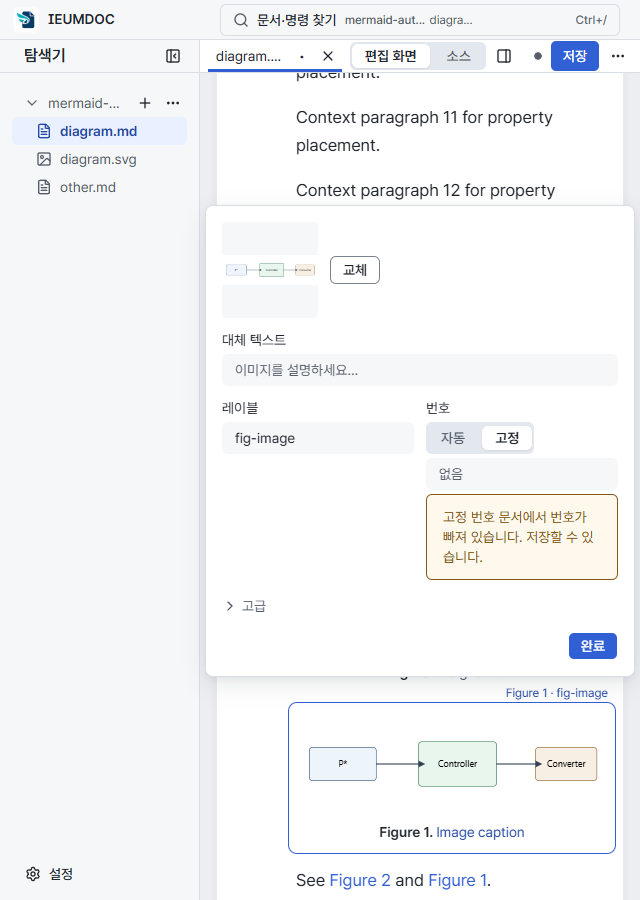
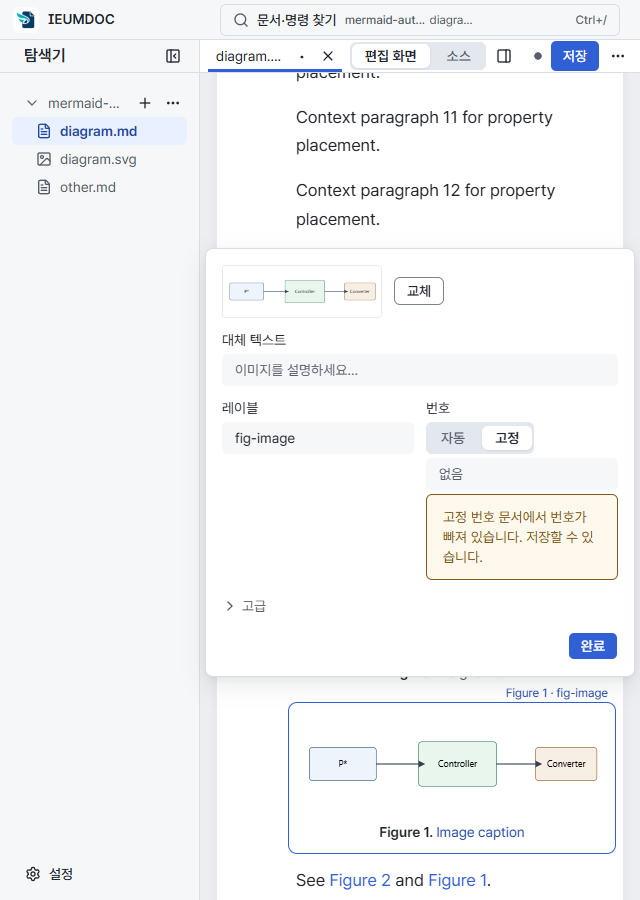
fix(editor): fit figure previews without square letterboxing
Bound image and Mermaid previews by adjustable maximum dimensions, put the
subtle border on the image itself, and align Advanced's visible Done clearance.
Refresh only the four owner-requested captures and their measurements.

AI-Agent: Codex
AI-Model: openai/gpt-6.1-sol

diff --git a/apps/editor/test/figure-authoring.browser.js b/apps/editor/test/figure-authoring.browser.js
@@ -223,6 +223,7 @@ async (page, { openFolderPicker, openDocument, waitForEditorFocus, expect, scree
           const track=el.querySelector('.view-toggle'), input=el.querySelector('[data-testid="figure-label"]');
           const box=el.querySelector('.figure-property-thumbnail'), image=box.querySelector('img');
           const b=box.getBoundingClientRect(), i=image.getBoundingClientRect(), style=getComputedStyle(el);
+          const imageStyle=getComputedStyle(image);
           return {
             segmentOffsets:[...track.querySelectorAll('button')].map(button => {
               const range=document.createRange(); range.selectNodeContents(button.querySelector('.view-toggle-label') ?? button);
@@ -231,6 +232,10 @@ async (page, { openFolderPicker, openDocument, waitForEditorFocus, expect, scree
             rowOffset:center(track.getBoundingClientRect())-center(input.getBoundingClientRect()),
             empty:[...el.querySelectorAll('input')].filter(n => !n.value && n.getClientRects().length).map(n => ({placeholder:n.placeholder, background:getComputedStyle(n).backgroundColor,surface:style.backgroundColor})),
             thumbnail:{box:rect(box),image:rect(image),ratio:image.naturalWidth/image.naturalHeight,
+              contentWidth:i.width-parseFloat(imageStyle.borderLeftWidth)-parseFloat(imageStyle.borderRightWidth),
+              contentHeight:i.height-parseFloat(imageStyle.borderTopWidth)-parseFloat(imageStyle.borderBottomWidth),
+              maxWidth:parseFloat(imageStyle.maxWidth),maxHeight:parseFloat(imageStyle.maxHeight),
+              background:getComputedStyle(box).backgroundColor,
               fits:i.left>=b.left && i.right<=b.right && i.top>=b.top && i.bottom<=b.bottom,
               offset:center(b)-center(el.querySelector('[data-testid="figure-replace"]').getBoundingClientRect())},
             disclosure:el.querySelector('summary svg')?.tagName,
@@ -245,10 +250,25 @@ async (page, { openFolderPicker, openDocument, waitForEditorFocus, expect, scree
           expect(empty.background).not.toBe('rgba(0, 0, 0, 0)');
         }
         expect(controls.thumbnail.fits).toBe(true);
-        expect(controls.thumbnail.image.width/controls.thumbnail.image.height).toBeCloseTo(controls.thumbnail.ratio,1);
+        expect(controls.thumbnail.background).toBe('rgba(0, 0, 0, 0)');
+        expect(Math.abs(controls.thumbnail.box.height-controls.thumbnail.image.height)).toBeLessThanOrEqual(1);
+        expect(Math.abs(controls.thumbnail.box.width-controls.thumbnail.image.width)).toBeLessThanOrEqual(1);
+        expect(controls.thumbnail.image.width).toBeLessThanOrEqual(controls.thumbnail.maxWidth);
+        expect(controls.thumbnail.image.height).toBeLessThanOrEqual(controls.thumbnail.maxHeight);
+        expect(controls.thumbnail.contentWidth/controls.thumbnail.contentHeight).toBeCloseTo(controls.thumbnail.ratio,1);
         expect(Math.abs(controls.thumbnail.offset)).toBeLessThanOrEqual(1);
         expect(controls.disclosure).toBe('svg');
         expect(new Set(controls.padding).size).toBe(1);
+        const closedGap=await popup.evaluate(el => {
+          const summary=el.querySelector('summary'), r=summary.getBoundingClientRect();
+          const labelBottom=r.top+(r.height+parseFloat(getComputedStyle(summary).lineHeight))/2;
+          return el.querySelector('.form-actions').getBoundingClientRect().top-labelBottom;
+        });
+        await popup.locator('summary').click();
+        const openGap=await popup.evaluate(el => el.querySelector('.form-actions').getBoundingClientRect().top-
+          el.querySelector('[data-testid="figure-file-name"]').getBoundingClientRect().bottom);
+        expect(Math.abs(openGap-closedGap), 'Expanded filename and collapsed disclosure have equal visible clearance before Done').toBeLessThanOrEqual(1);
+        await popup.locator('summary').click();
         // Revealing the third Number row must not stretch the neighboring Label field.
         const labelHeight=await page.getByTestId('figure-label').evaluate(el => el.getBoundingClientRect().height);
         await popup.getByRole('button',{name:'Fixed',exact:true}).click();

diff --git a/apps/editor/src/styles.css b/apps/editor/src/styles.css
@@ -2583,17 +2583,22 @@ ol.list[data-list-delimiter=")"][data-list-style="upper-roman"] > li::marker { c
 .figure-properties [data-slot="input"]:focus-visible { border-color: var(--id-color-border-focus); }
 .figure-property-media { display: flex; align-items: center; gap: var(--space-3); }
 .figure-property-thumbnail {
-  display: grid;
-  place-items: center;
+  display: flex;
+  align-items: center;
   flex: none;
-  width: var(--size-figure-property-thumbnail);
-  height: var(--size-figure-property-thumbnail);
-  overflow: hidden;
-  border-radius: var(--id-radius-sm);
-  background: var(--id-color-surface-subtle);
 }
-.figure-property-thumbnail img { display: block; max-width: 100%; max-height: 100%; width: auto; height: auto; object-fit: contain; }
-.figure-property-thumbnail .mermaid-preview { display: flex; align-items: center; justify-content: center; margin: 0; min-height: 0; width: 100%; height: 100%; }
+.figure-property-thumbnail img {
+  display: block;
+  max-width: var(--size-figure-property-thumbnail-max-width);
+  max-height: var(--size-figure-property-thumbnail-max-height);
+  width: auto;
+  height: auto;
+  border: var(--border-width) solid var(--id-color-border-subtle);
+  border-radius: var(--id-radius-sm);
+}
+/* Mermaid SVGs use percentage width; provide a width reference, leaving height intrinsic. */
+.figure-property-thumbnail .mermaid-preview { width: var(--size-figure-property-thumbnail-max-width); margin: 0; min-height: 0; }
+.figure-property-thumbnail .mermaid-preview img { margin: 0; }
 .figure-property-columns { display: grid; grid-template-columns: minmax(0, 1fr) minmax(0, 1fr); align-items: start; gap: var(--space-3); }
 .figure-number-field .view-toggle { width: fit-content; height: var(--size-control); align-items: center; }
 .figure-properties details > summary {
@@ -2609,6 +2614,8 @@ ol.list[data-list-delimiter=")"][data-list-style="upper-roman"] > li::marker { c
 .figure-properties details > summary svg { width: var(--size-icon-slot); height: var(--size-icon-slot); }
 .figure-properties details[open] > summary svg { transform: rotate(90deg); }
 .figure-properties details[open] > summary { margin-bottom: var(--space-2); }
+/* Match the collapsed disclosure's label-line clearance above Done. */
+.figure-properties details[open] { padding-bottom: var(--space-1); }
 .figure-properties .ui-notice { margin: 0; font-size: var(--font-size-sm); line-height: var(--line-height-label); }
 
 .block-popover-note {

diff --git a/apps/editor/test/mermaid-authoring.browser.js b/apps/editor/test/mermaid-authoring.browser.js
@@ -56,13 +56,22 @@ async (page, { openPath, screenshots, expect, waitForEditorFocus, reloadDocument
   await expect(thumbnail.getByTestId('mermaid-preview')).toHaveAttribute('aria-busy','false');
   const media = await thumbnail.evaluate(el => {
     const image=el.querySelector('img'), box=el.getBoundingClientRect(), r=image.getBoundingClientRect();
+    const s=getComputedStyle(image);
     const button=el.parentElement.querySelector('button').getBoundingClientRect();
     return {width:r.width,height:r.height,ratio:image.naturalWidth/image.naturalHeight,
+      contentWidth:r.width-parseFloat(s.borderLeftWidth)-parseFloat(s.borderRightWidth),
+      contentHeight:r.height-parseFloat(s.borderTopWidth)-parseFloat(s.borderBottomWidth),
+      maxWidth:parseFloat(s.maxWidth),maxHeight:parseFloat(s.maxHeight),boxHeight:box.height,
+      borders:[s.borderLeftWidth,s.borderRightWidth,s.borderTopWidth,s.borderBottomWidth],
+      background:getComputedStyle(el).backgroundColor,
       fits:r.left>=box.left && r.right<=box.right && r.top>=box.top && r.bottom<=box.bottom,
       centerOffset:box.y+box.height/2-button.y-button.height/2,buttonWidth:button.width,boxWidth:box.width};
   });
   expect(media.width).toBeGreaterThan(0); expect(media.height).toBeGreaterThan(0);
-  expect(media.width/media.height).toBeCloseTo(media.ratio,1);
+  expect(media.contentWidth/media.contentHeight, JSON.stringify(media)).toBeCloseTo(media.ratio,1);
+  expect(media.width).toBeLessThanOrEqual(media.maxWidth); expect(media.height).toBeLessThanOrEqual(media.maxHeight);
+  expect(media.background).toBe('rgba(0, 0, 0, 0)');
+  expect(Math.abs(media.boxHeight-media.height)).toBeLessThanOrEqual(1);
   expect(media.fits).toBe(true); expect(Math.abs(media.centerOffset)).toBeLessThanOrEqual(1);
   expect(media.buttonWidth).toBeLessThan((await properties.boundingBox()).width-media.boxWidth);
   await expect(field()).toHaveCount(0);

diff --git a/apps/editor/src/styles/tokens.css b/apps/editor/src/styles/tokens.css
@@ -78,7 +78,8 @@
   --layout-inline-math-popover-width: 36rem;
   /* Figure metadata popover and its image thumbnail. */
   --layout-figure-popover-width: 32.5rem;
-  --size-figure-property-thumbnail: 6rem;
+  --size-figure-property-thumbnail-max-width: 10rem;
+  --size-figure-property-thumbnail-max-height: 6rem;
   --space-figure-popover-gap: 8px;
   /* Shared reference/citation underline distance, including unchecked citations. */
   --reference-underline-offset: 3px;

diff --git a/docs/design/figure-authoring-v1.md b/docs/design/figure-authoring-v1.md
@@ -273,9 +273,11 @@ Number uses Automatic/Fixed segments, with an input only for Fixed. Empty fixed 
 fixed number as before. Core warning Notices appear only when needed. Fields have transparent
 rest borders, a subtle surface fill and empty-value placeholders, with hover/focus boundaries.
 The Number track matches the neighboring input height, and visible segment labels share the
-hidden width-reserving labels' grid cell. Both media kinds use contained, centered thumbnails
-on a subtle surface with the content radius and compact actions in the same column. Advanced
+hidden width-reserving labels' grid cell. Both media kinds use intrinsic-ratio previews within
+adjustable maximum width/height, without a fixed box or letterbox fill. The image itself has
+a subtle structural border and content radius; compact actions remain vertically centered. Advanced
 uses a native keyboard-accessible disclosure with the shared chevron and compact target.
+Its expanded filename row retains the collapsed label-line clearance above Done.
 Form rows use the shared 12px gap and equal 16px outer padding; warnings/errors use UI 14/20
 type without an extra bottom margin. Number warnings stay in the Number column. Above placement
 includes the absolute metadata line in the anchor. There is no repeated title, path summary, caption field
@@ -320,7 +322,7 @@ uses the existing segment markup; toolbar Visual/Source CSS is unchanged. Relati
 cover text/button centers, Label/Number height/centers, contained image aspect ratio, media-action
 alignment, visible empty fields, SVG disclosure, notice typography and metadata clearance.
 
-Same-state manual captures use base `b43978ac` and this PR, 1440/640 × 900, Light/Dark,
+Initial same-state manual captures use base `b43978ac` and `72041c94`, 1440/640 × 900, Light/Dark,
 bundled Pretendard, DPR/zoom 1 and one successful persistent Windows Chrome run. Sixteen
 plain context paragraphs before/after the existing Mermaid/image fixture permit controlled
 placement. Wide samples open below and narrow samples above; following prose may be covered.
@@ -328,6 +330,22 @@ The temporary collector verifies actual final thumbnail markup after switching s
 waits for image decoding/fonts and changes Korean through Settings. Earlier development captures
 were discarded. Captures are manual evidence, separate from automated assertions.
 [State measurements, source hashes and PNG hashes](assets/figure-properties-760/capture-metadata.json).
+
+Owner review replaced the square thumbnail with intrinsic-ratio previews bounded by 10rem × 6rem
+tokens. Only the following four files were refreshed in one persistent run, with the same fixture,
+fonts, viewport height and theme/language controls. Other captures retain the initial `72041c94`
+appearance. Each image now owns its subtle border/content radius; its surrounding area is
+transparent and has no fixed height. Mermaid's percentage-width SVG receives a maximum-width
+reference while height remains intrinsic. Relationship assertions compare content-box aspect
+ratio, maximum bounds and the absence of wrapper letterbox height. Advanced's expanded filename
+row also receives the collapsed disclosure's label-line clearance before Done, verified at both widths.
+
+| Current follow-up state | Capture |
+| --- | --- |
+| Light image / 1440 / detail | [PNG](assets/figure-properties-760/after-light-image-1440-detail.png) |
+| Dark image / 1440 / detail | [PNG](assets/figure-properties-760/after-dark-image-1440-detail.png) |
+| Light Mermaid / 640 | [PNG](assets/figure-properties-760/after-light-mermaid-640.png) |
+| Korean Fixed + warning / 640 | [PNG](assets/figure-properties-760/after-ko-fixed-warning-640.png) |
 
 | State | Before | After |
 | --- | --- | --- |

diff --git a/docs/design/editor-visual-language-v1.md b/docs/design/editor-visual-language-v1.md
@@ -512,11 +512,13 @@ Done action and no repeated title, path summary, caption input or section headin
 collapsed except for retained filename drafts/errors and contains explicit Rename. Image replacement
 and Mermaid source entry are explicit actions; the latter opens the unchanged full-column source
 editor after metadata validation. Conditional errors/warnings/draft notices remain visible.
-Image and Mermaid thumbnails share a contained, centered token-sized box with subtle fill
-and the content radius. Replace/Edit source are compact actions in the same column. Label
+Image and Mermaid previews preserve their intrinsic ratio within adjustable maximum width/height,
+without a fixed square or letterbox fill. The image itself has a subtle structural border and
+content radius. Replace/Edit source remain vertically centered compact actions. Label
 and Number share a control-height center; segment labels occupy one grid cell with their
 hidden width reservation. Advanced uses the shared chevron and compact target. Equal outer
 padding and shared row gaps keep the single Done action separate without extra notice margins.
+Expanded Advanced retains the collapsed disclosure label-line clearance above Done.
 Warning/error text stays at UI 14/20. Above placement clears the visible metadata line (#760).
 Width, thumbnail size and anchor gap use adjustable tokens in `tokens.css`.
 See [interaction and bounds](figure-authoring-v1.md#anchored-figure-properties-757).
@@ -863,7 +865,10 @@ verification reruns the Editor tests, typecheck/build/docs and the six targeted 
 
 ## Adjustable values and preferences
 
-- Figure metadata: `--layout-figure-popover-width`, `--size-figure-property-thumbnail` (6rem square) and `--space-figure-popover-gap` control the anchored surface, shared media box and clearance. Fields, disclosure, segments and notices reuse the existing control, spacing, radius, surface and UI typography tokens.
+- Figure metadata: `--layout-figure-popover-width`, `--size-figure-property-thumbnail-max-width`
+  (10rem), `--size-figure-property-thumbnail-max-height` (6rem) and `--space-figure-popover-gap`
+  control the anchored surface, intrinsic-ratio preview limits and clearance. Fields, disclosure,
+  segments and notices reuse the existing control, spacing, radius, surface and UI typography tokens.
 
 - Accent values (#559): the four palette entries per preset above, shared heading-number,
   selected-text and focus aliases, plus neutral `info`/`surface-info`. Settings selects

diff --git a/docs/design/editor-layout-rules-v1.md b/docs/design/editor-layout-rules-v1.md
@@ -88,11 +88,14 @@ interactive descendants are no-drag. No fixed caption-button width is used in pr
 Figure metadata (#757) is anchored to the full Figure and caption, below by default and above
 on collision, with its width/height capped to the owning group's available viewport. Single-group
 Sidebar/Outline padding and native scrollbar are excluded. `--layout-figure-popover-width` and
-`--size-figure-property-thumbnail` and `--space-figure-popover-gap` are adjustable; spacing and control dimensions reuse the shared
+`--size-figure-property-thumbnail-max-width`, `--size-figure-property-thumbnail-max-height`
+and `--space-figure-popover-gap` are adjustable; spacing and control dimensions reuse the shared
 tokens. Label and Number share a two-column row at both wide and supported narrow widths.
 The Number track and Label input share a height and vertical center (#760); revealing the
-fixed input or its warning does not stretch the Label field. The contained square media box
-centers its compact action; above placement also clears the absolute metadata line.
+fixed input or its warning does not stretch the Label field. Media previews retain their own
+aspect ratio within the maximum width/height, without a fixed box or letterbox fill, and center
+their compact action. Expanded Advanced retains the collapsed label-line clearance above Done.
+Above placement also clears the absolute metadata line.
 See [Figure properties](figure-authoring-v1.md#anchored-figure-properties-757).
 
 ## Controls and spacing
